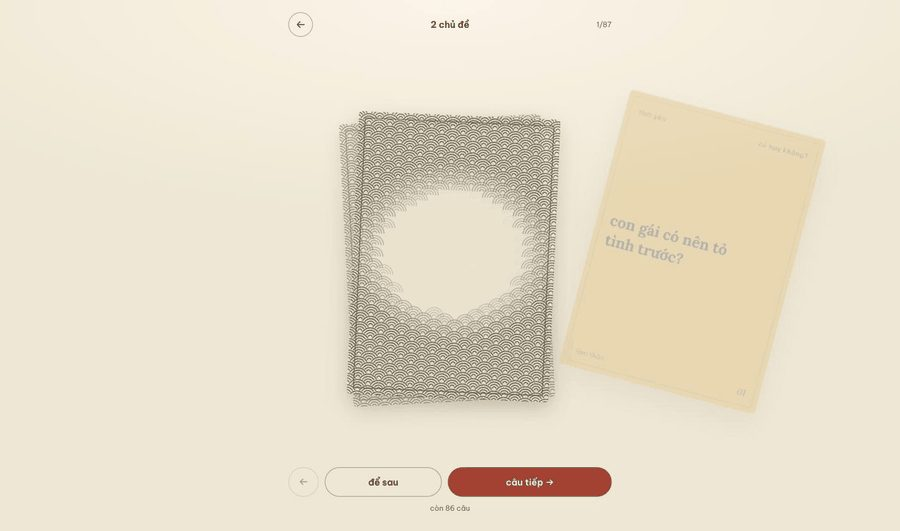
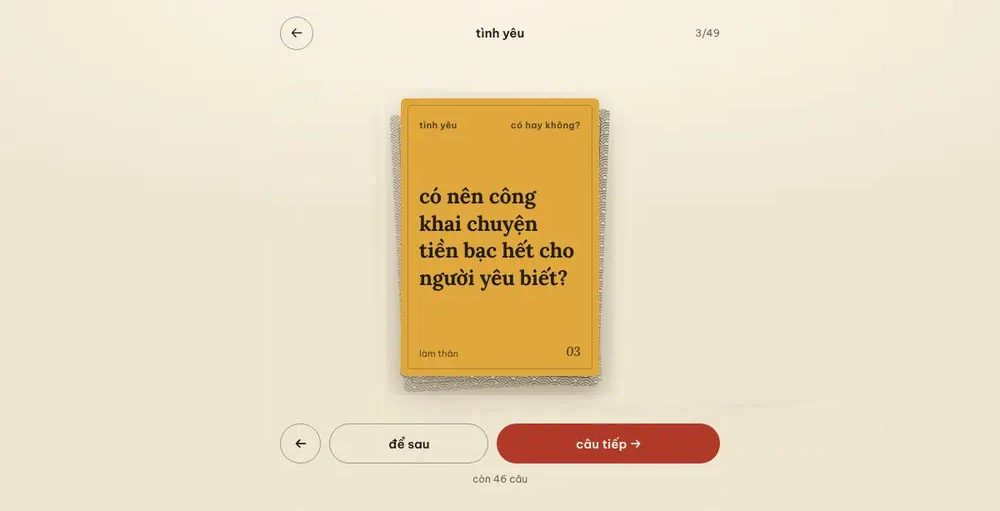
Record the làm thân demo at 20fps instead of 9 stills
The gif was nine screenshots held 1.5s each, so it read as a slideshow
rather than the game moving. This drives the site over the DevTools
protocol and captures the screencast frames, so the deal and the card
flips play at 20fps.

Animated webp rather than gif: 1000x511 at 263KB, against 312KB for the
900x531 gif it replaces. Identical hold frames collapse into one long
frame, so the still stretches cost nothing.

diff --git a/style.css b/style.css
@@ -128,9 +128,9 @@ img { max-width: 100%; display: block; }
 .card-bar span { padding-left: 8px; }
 .card-img { width: 100%; aspect-ratio: 1486 / 620; object-fit: cover; object-position: top; }
 .card-video { display: block; aspect-ratio: 2 / 1; object-position: center; background: #000; }
-/* the làm thân demo is a gif: shown whole, on the game's own paper colour */
-.card-gif { display: block; width: 100%; height: auto; aspect-ratio: 2 / 1; object-fit: contain; background: #f2ebda; border-bottom: 1px solid var(--border); }
-@media (prefers-reduced-motion: reduce) { .card-gif { content: url("assets/video/lamthan-poster.jpg"); } }
+/* the làm thân demo is an animated image: shown whole, on the game's own paper colour */
+.card-demo { display: block; width: 100%; height: auto; aspect-ratio: 2 / 1; object-fit: contain; background: #f2ebda; border-bottom: 1px solid var(--border); }
+@media (prefers-reduced-motion: reduce) { .card-demo { content: url("assets/video/lamthan-poster.jpg"); } }
 video { max-width: 100%; }
 .card-proof {
   position: relative;

diff --git a/index.html b/index.html
@@ -97,7 +97,7 @@
 
       <article class="card">
         <div class="card-bar" aria-hidden="true"><i></i><i></i><i></i><span>lamthan.com</span></div>
-        <img class="card-gif" src="assets/video/lamthan.gif" width="900" height="531" loading="lazy" decoding="async" alt="Recording of the site: picking the Tình Yêu and Deep Talk decks, then flipping through three question cards">
+        <img class="card-demo" src="assets/video/lamthan.webp" width="1000" height="511" loading="lazy" decoding="async" alt="Recording of the site: picking the Tình Yêu deck, then flipping through three question cards">
         <div class="card-body">
           <div class="card-title">
             <h3><a href="https://lamthan.com" target="_blank" rel="noopener">làm thân</a></h3>
